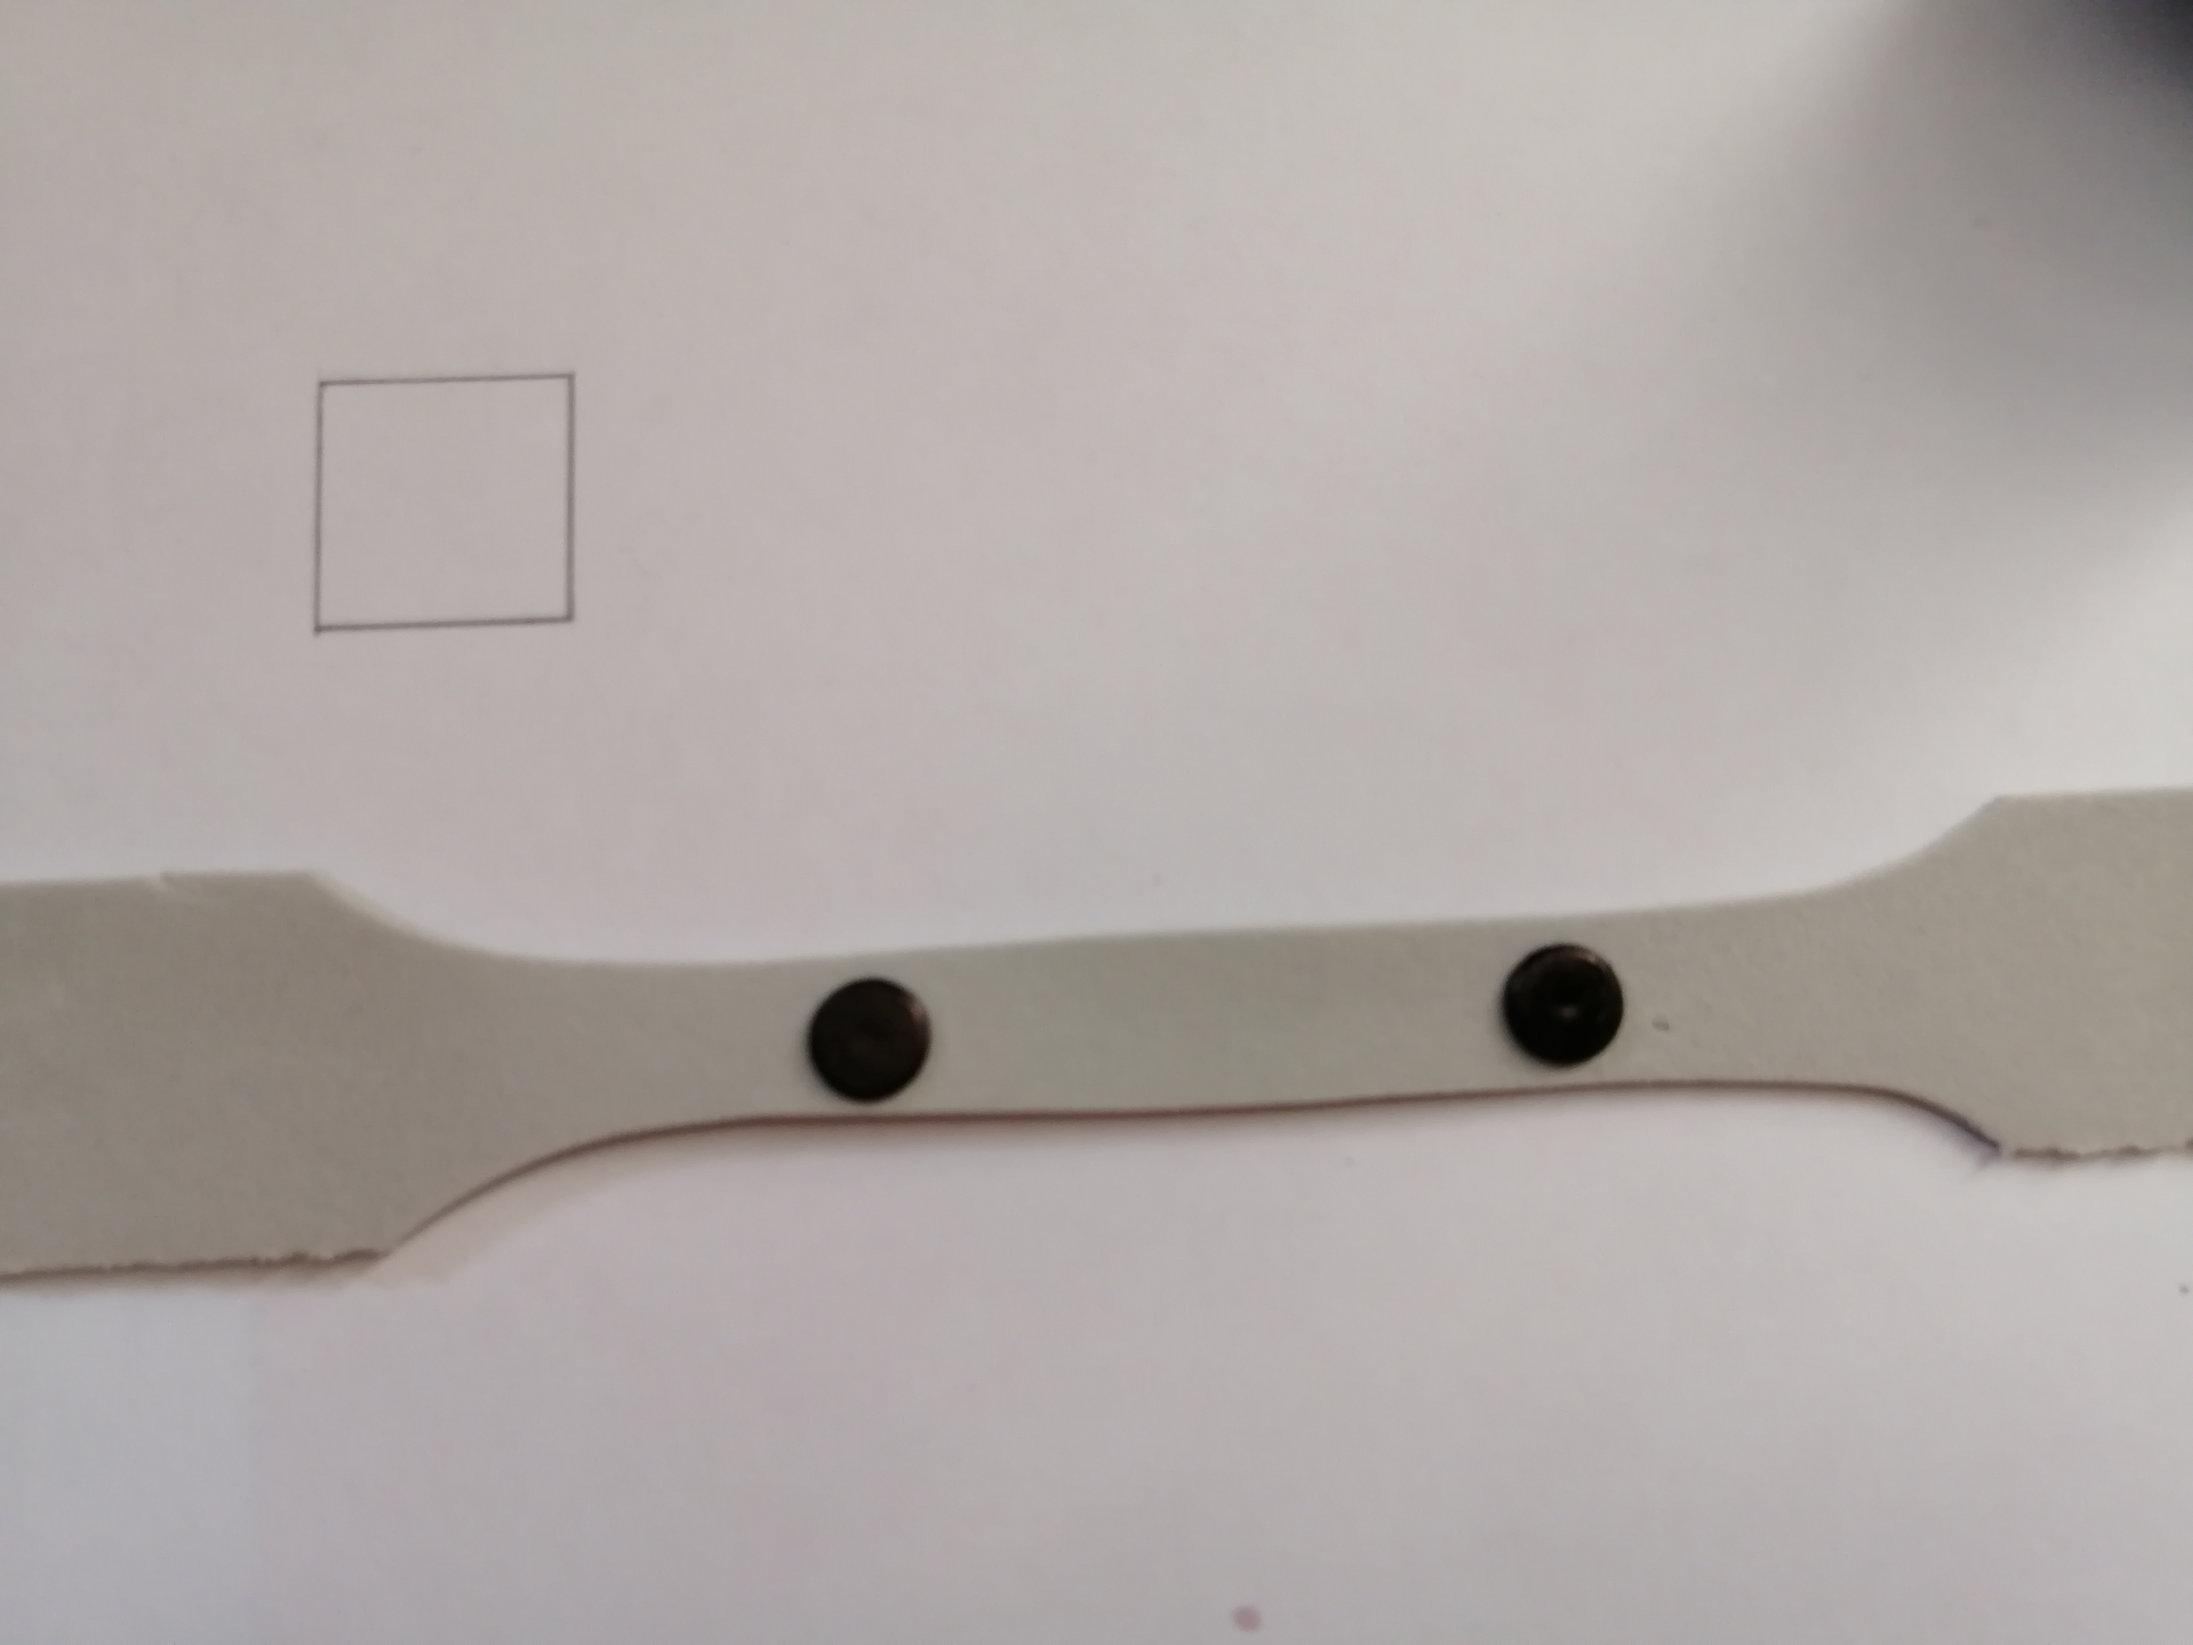
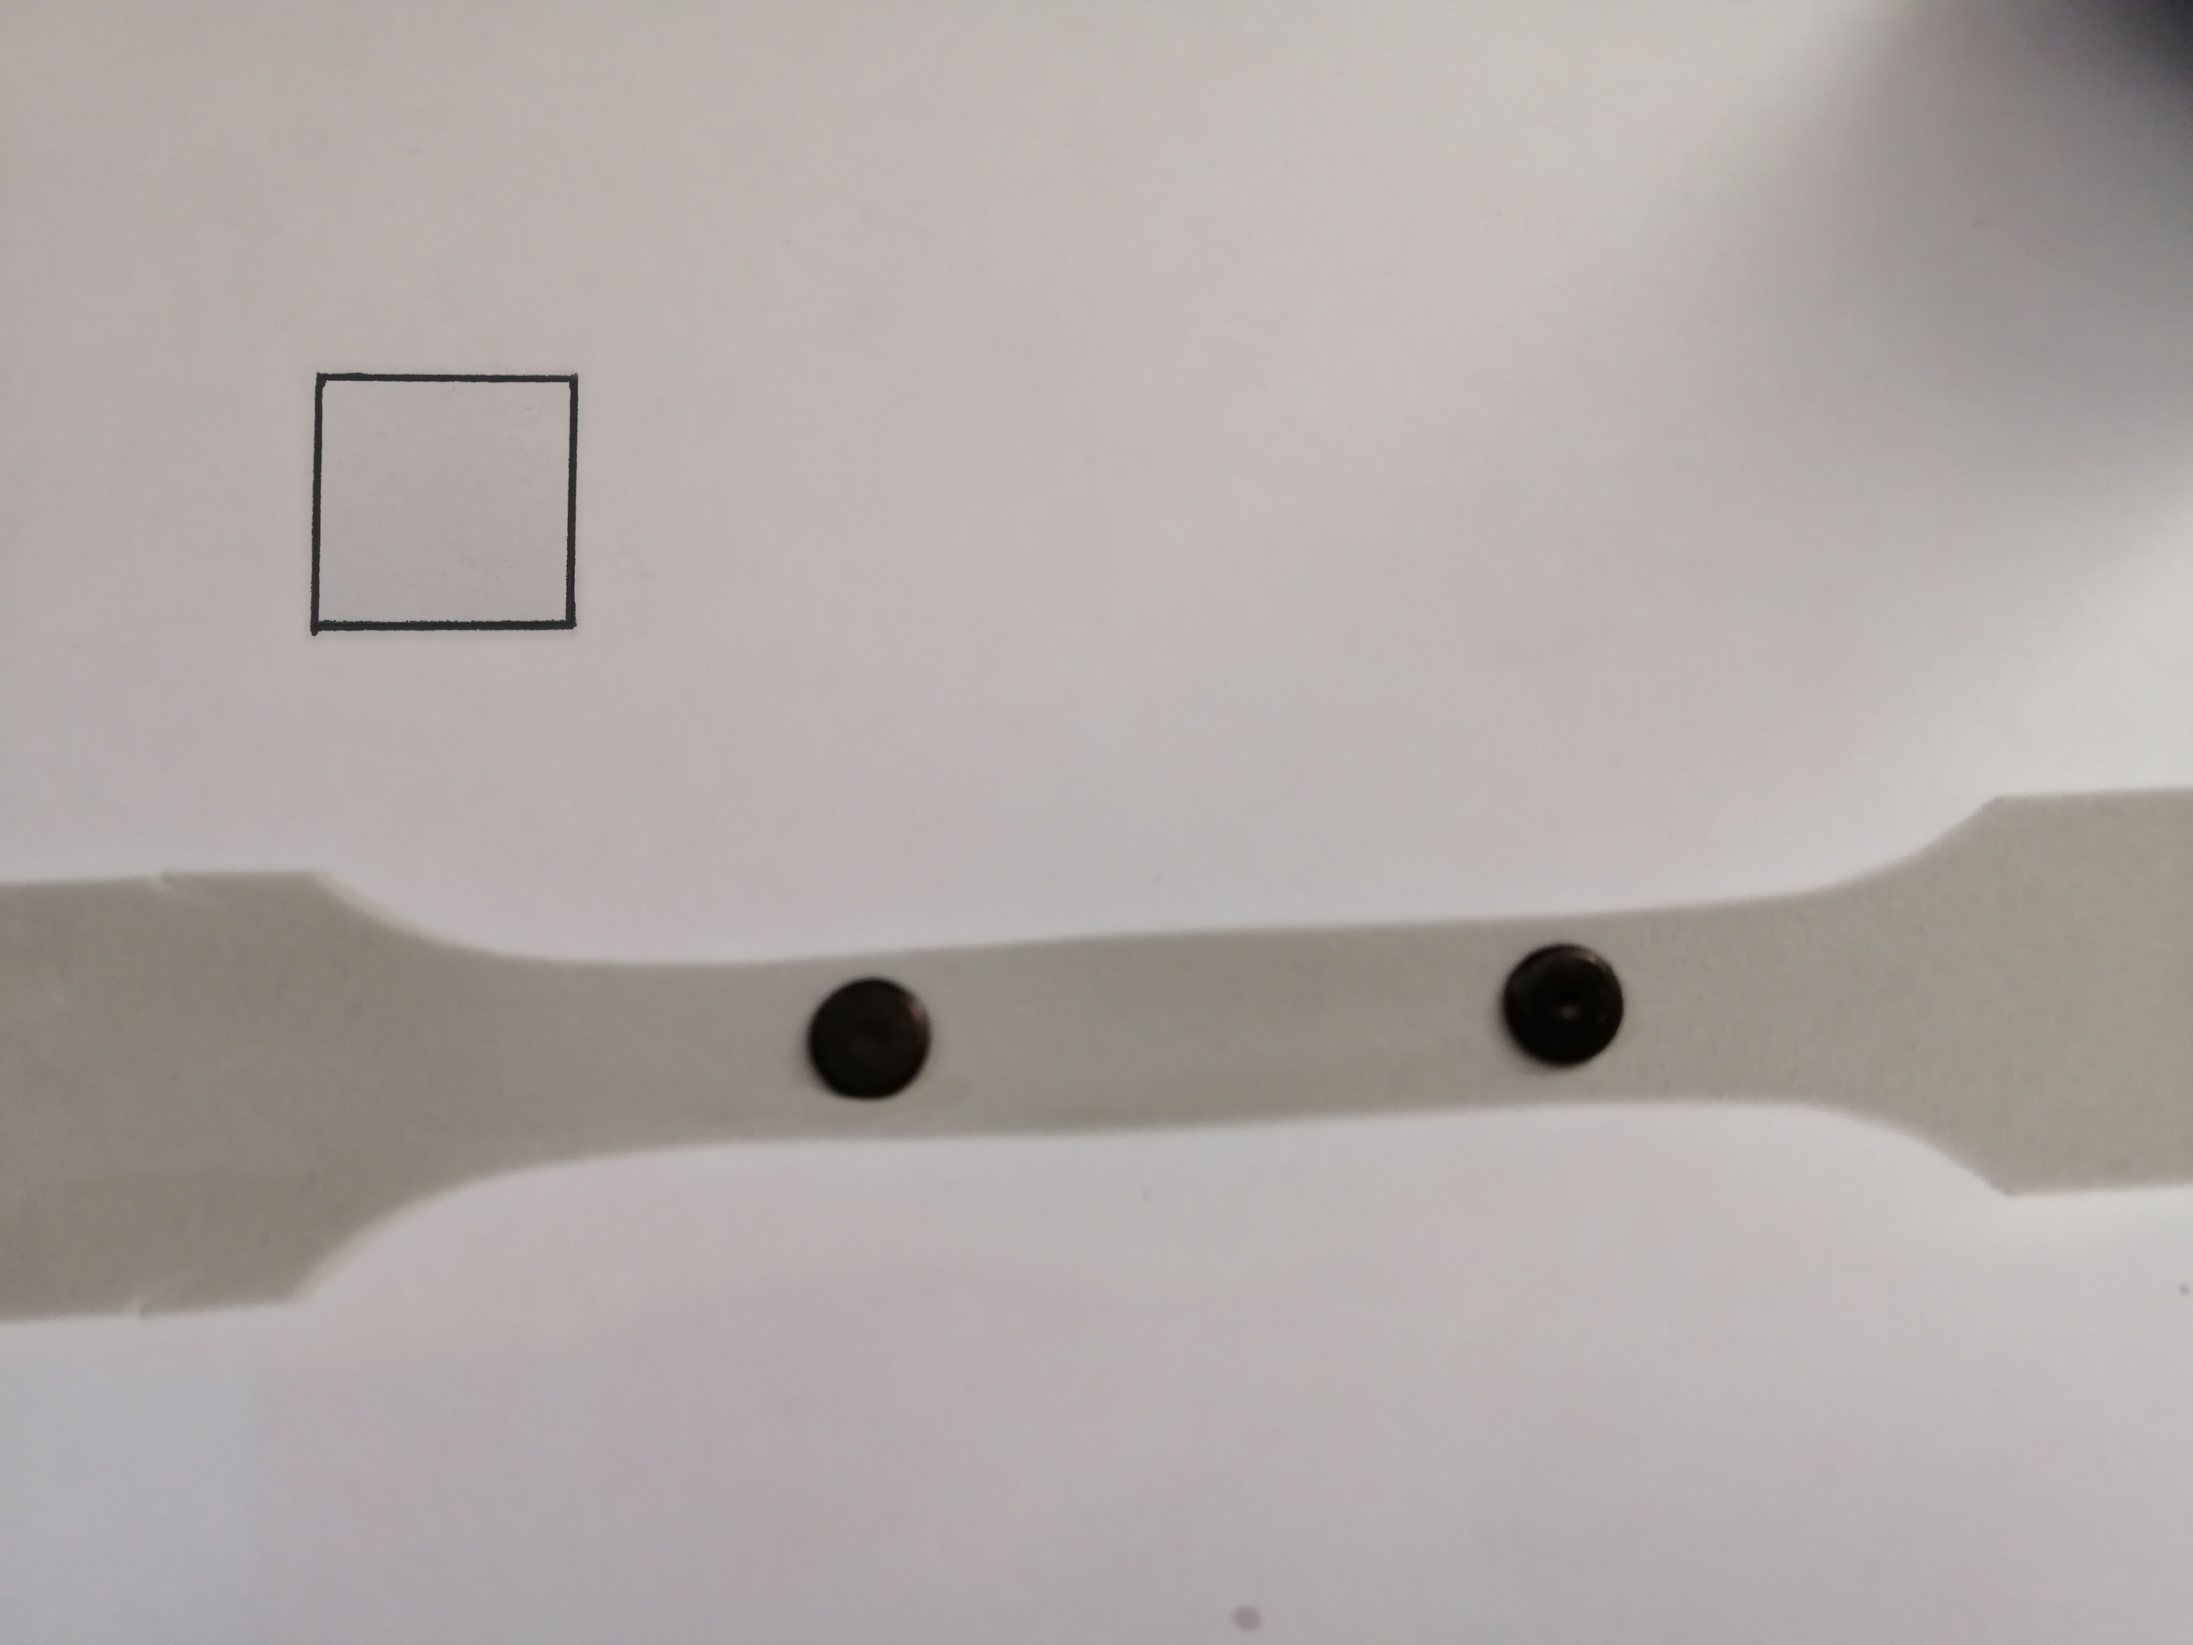
second presentation

Changed region(s): [[0.0, 0.6562, 1.0, 0.8125], [0.125, 0.2188, 0.2812, 0.4062]]

diff --git a/test-object-size/init.py b/test-object-size/init.py
@@ -6,9 +6,12 @@ import numpy as np
 import imutils
 import cv2
 
+cv2.namedWindow('Image2', cv2.WINDOW_NORMAL)
+cv2.resizeWindow('Image2', 640, 480)
+
 # Function to show array of images (intermediate results)
 def show_images(images):
-	print(images)
+	#print(images)
 	for i, img in enumerate(images):
 		cv2.namedWindow('Image'+ str(i), cv2.WINDOW_NORMAL)
 		cv2.resizeWindow('Image'+ str(i), 640, 480)
@@ -17,28 +20,44 @@ def show_images(images):
 	cv2.destroyAllWindows()
 
 
+
 #img_path = "fotos2/4.jpeg"
-img_path = "botao_colado/1.jpg"
+img_path = "botao_colado/6.jpg"
 
 
 # Read image and preprocess
 image = cv2.imread(img_path)
-
+   
 gray = cv2.cvtColor(image, cv2.COLOR_BGR2GRAY)
-show_images(image)
-blur = cv2.GaussianBlur(gray, (9, 9), 0)
-show_images(blur)
+#cv2.imshow("Image2", gray)
+#cv2.waitKey(0)
 
-edged = cv2.Canny(blur, 50, 100)
+blur = cv2.GaussianBlur(gray, (9, 9), 0)
+#blur = cv2.GaussianBlur(gray, (11, 11), 0)
+#cv2.imshow("Image2", blur)
+#cv2.waitKey(0)
+
+
+edged = cv2.Canny(blur, 50, 150)
+#edged = cv2.Canny(blur, 60, 90)
+#cv2.imshow("Image2", edged)
+#cv2.waitKey(0)
+
 edged = cv2.dilate(edged, None, iterations=1)
+#cv2.imshow("Image2", edged)
+#cv2.waitKey(0)
+
 edged = cv2.erode(edged, None, iterations=1)
+#cv2.imshow("Image2", edged)
+#cv2.waitKey(0)
+
 
 #show_images([blur, edged])
 
 # Find contours
 cnts = cv2.findContours(edged.copy(), cv2.RETR_EXTERNAL, cv2.CHAIN_APPROX_SIMPLE)
 cnts = imutils.grab_contours(cnts)
-
+print(cnts)
 # Sort contours from left to right as leftmost contour is reference object
 (cnts, _) = contours.sort_contours(cnts)
 
@@ -61,6 +80,8 @@ box = perspective.order_points(box)
 dist_in_pixel = euclidean(tl, tr)
 dist_in_cm = 2
 pixel_per_cm = dist_in_pixel/dist_in_cm
+
+
 
 # Draw remaining contours
 for cnt in cnts:

diff --git a/test-object-size/contrast.py b/test-object-size/contrast.py
@@ -1,0 +1,41 @@
+import cv2
+
+
+def show_image(name,img):
+	cv2.namedWindow(name, cv2.WINDOW_NORMAL)
+	cv2.resizeWindow(name, 800, 600)
+	cv2.imshow(name,img)
+	#cv2.waitKey(0)
+
+
+#-----Reading the image-----------------------------------------------------
+img = cv2.imread('botao_colado/1.jpg', 1)
+show_image("img",img) 
+
+#-----Converting image to LAB Color model----------------------------------- 
+lab= cv2.cvtColor(img, cv2.COLOR_BGR2LAB)
+show_image("lab",lab)
+
+#-----Splitting the LAB image to different channels-------------------------
+l, a, b = cv2.split(lab)
+show_image('l_channel', l)
+show_image('a_channel', a)
+show_image('b_channel', b)
+
+#-----Applying CLAHE to L-channel-------------------------------------------
+clahe = cv2.createCLAHE(clipLimit=3.0, tileGridSize=(8,8))
+cl = clahe.apply(l)
+show_image('CLAHE output', cl)
+
+#-----Merge the CLAHE enhanced L-channel with the a and b channel-----------
+limg = cv2.merge((cl,a,b))
+show_image('limg', limg)
+
+#-----Converting image from LAB Color model to RGB model--------------------
+final = cv2.cvtColor(limg, cv2.COLOR_LAB2BGR)
+show_image('final', final)
+
+
+cv2.waitKey(0)
+
+#_____END_____#

diff --git a/test-object-size/test_canny.py b/test-object-size/test_canny.py
@@ -1,0 +1,46 @@
+
+from scipy.spatial.distance import euclidean
+from imutils import perspective
+from imutils import contours
+import numpy as np
+import imutils
+import cv2
+
+cv2.namedWindow('Image2', cv2.WINDOW_NORMAL)
+#cv2.resizeWindow('Image2', 640, 480)
+cv2.resizeWindow('Image2', 800, 600)
+
+
+#img_path = "fotos2/4.jpeg"
+img_path = "botao_colado/1.jpg"
+
+
+# Read image and preprocess
+image = cv2.imread(img_path)
+
+   
+gray = cv2.cvtColor(image, cv2.COLOR_BGR2GRAY)
+#cv2.imshow("Image2", gray)
+#cv2.waitKey(0)
+
+gray = cv2.equalizeHist(gray)
+cv2.imshow("Image2", gray)
+cv2.waitKey(0)
+
+blur = cv2.GaussianBlur(gray, (9, 9), 0)
+#cv2.imshow("Image2", blur)
+#cv2.waitKey(0)
+
+
+edged = cv2.Canny(blur, 50, 100)
+#edged = cv2.Canny(blur, 30, 60)
+#cv2.imshow("Image2", edged)
+#cv2.waitKey(0)
+
+edged = cv2.dilate(edged, None, iterations=1)
+#cv2.imshow("Image2", edged)
+#cv2.waitKey(0)
+
+edged = cv2.erode(edged, None, iterations=1)
+#cv2.imshow("Image2", edged)
+#cv2.waitKey(0)

diff --git a/test-object-size/equalizeHist.py b/test-object-size/equalizeHist.py
@@ -1,0 +1,24 @@
+import cv2
+import numpy as np
+
+
+
+cv2.namedWindow('Image2', cv2.WINDOW_NORMAL)
+#cv2.resizeWindow('Image2', 640, 480)
+cv2.resizeWindow('Image2', 800, 600)
+
+img = cv2.imread('botao_colado/1.jpg')
+
+img_yuv = cv2.cvtColor(img, cv2.COLOR_BGR2YUV)
+
+# equalize the histogram of the Y channel
+img_yuv[:,:,0] = cv2.equalizeHist(img_yuv[:,:,0])
+
+# convert the YUV image back to RGB format
+img_output = cv2.cvtColor(img_yuv, cv2.COLOR_YUV2BGR)
+
+cv2.imshow('Image2', img)
+cv2.waitKey(0)
+cv2.imshow('Image2', img_output)
+
+cv2.waitKey(0)
